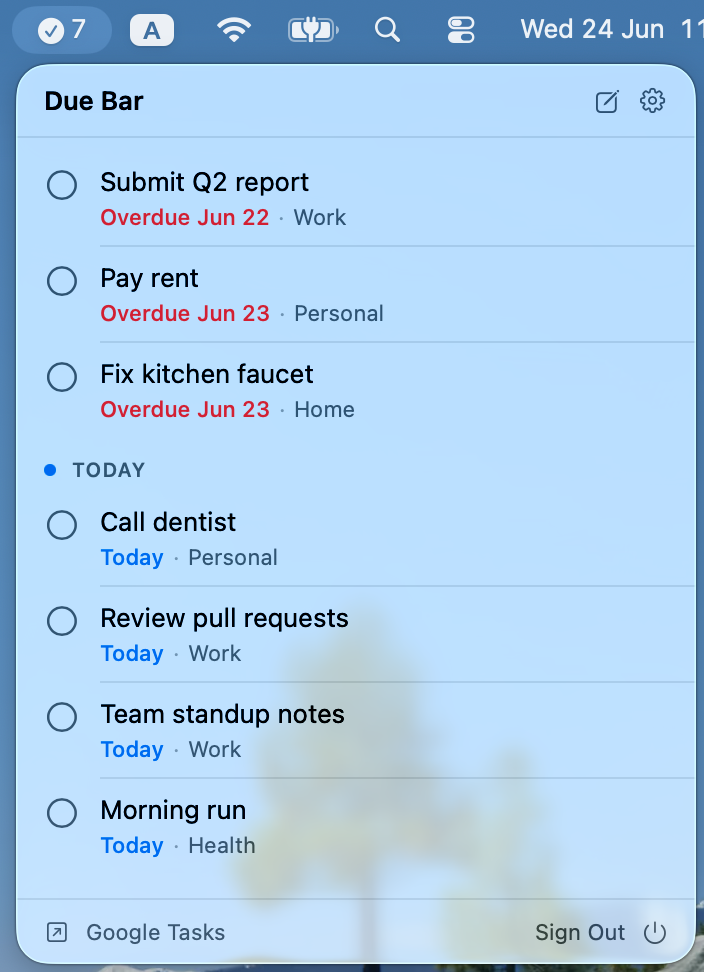
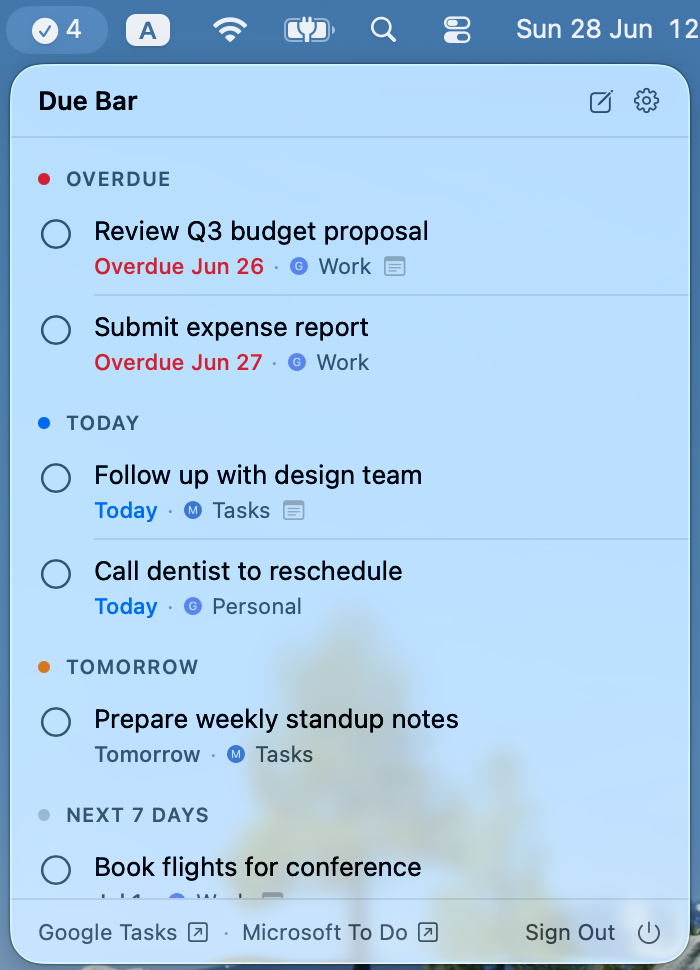
Add Microsoft To Do support to homepage
Update hero, feature copy, and screenshots to reflect dual-provider
support. New multi_account_signin.png feature section. All screenshots
refreshed to show Google + Microsoft tasks together.

diff --git a/index.html b/index.html
@@ -3,7 +3,7 @@
 <head>
   <meta charset="UTF-8">
   <meta name="viewport" content="width=device-width, initial-scale=1.0">
-  <title>DueBar — Google Tasks in your menu bar</title>
+  <title>DueBar — Google Tasks &amp; Microsoft To Do in your menu bar</title>
   <style>
     *, *::before, *::after { box-sizing: border-box; margin: 0; padding: 0; }
 
@@ -137,23 +137,33 @@
   </nav>
 
   <section class="hero">
-    <h1>Your Google Tasks,<br>always in reach.</h1>
-    <p>A lightweight macOS menu bar app that keeps your tasks front and center — no windows, no switching.</p>
+    <h1>Your tasks,<br>always in reach.</h1>
+    <p>A lightweight macOS menu bar app that brings Google Tasks and Microsoft To Do together — no windows, no switching.</p>
   </section>
 
   <div class="features">
 
     <div class="feature">
       <div class="feature-shot">
-        <img src="media/list.png" alt="DueBar task list showing tasks from Work, Personal, and Health lists together">
+        <img src="media/list.png" alt="DueBar task list showing tasks from Google Tasks and Microsoft To Do together, grouped by due date">
       </div>
       <div class="feature-text">
-        <h2>All your lists, one place.</h2>
-        <p>Tasks from every Google Tasks list — Work, Personal, Home, whatever you have — show up together, sorted by due date. No switching between lists.</p>
+        <h2>All your tasks, one place.</h2>
+        <p>Tasks from Google Tasks and Microsoft To Do show up together, sorted by due date. Work lists, personal lists, To Do lists — everything in a single view, no app switching required.</p>
       </div>
     </div>
 
     <div class="feature reverse">
+      <div class="feature-shot">
+        <img src="media/multi_account_signin.png" alt="Settings panel showing Google Tasks and Microsoft To Do both connected">
+      </div>
+      <div class="feature-text">
+        <h2>Connect both accounts.</h2>
+        <p>Sign in to Google Tasks, Microsoft To Do, or both at once. Your tasks stay in sync — and you can add or remove accounts any time from the settings panel.</p>
+      </div>
+    </div>
+
+    <div class="feature">
       <div class="feature-shot">
         <img src="media/mark_done.gif" alt="Marking a task as done">
       </div>
@@ -163,7 +173,7 @@
       </div>
     </div>
 
-    <div class="feature">
+    <div class="feature reverse">
       <div class="feature-shot wide">
         <img src="media/reschedule.png" alt="Reschedule picker with Tomorrow, 3 days, Next week options">
       </div>
@@ -173,13 +183,13 @@
       </div>
     </div>
 
-    <div class="feature reverse">
+    <div class="feature">
       <div class="feature-shot">
         <img src="media/add_task.png" alt="Create task form with title, notes, due date, and list picker">
       </div>
       <div class="feature-text">
         <h2>Add tasks without switching apps.</h2>
-        <p>Hit the compose button to create a task with a title, notes, due date, and list — then get straight back to work.</p>
+        <p>Hit the compose button to create a task with a title, notes, due date, and list — choose which account and list to save it to, then get straight back to work.</p>
       </div>
     </div>
 